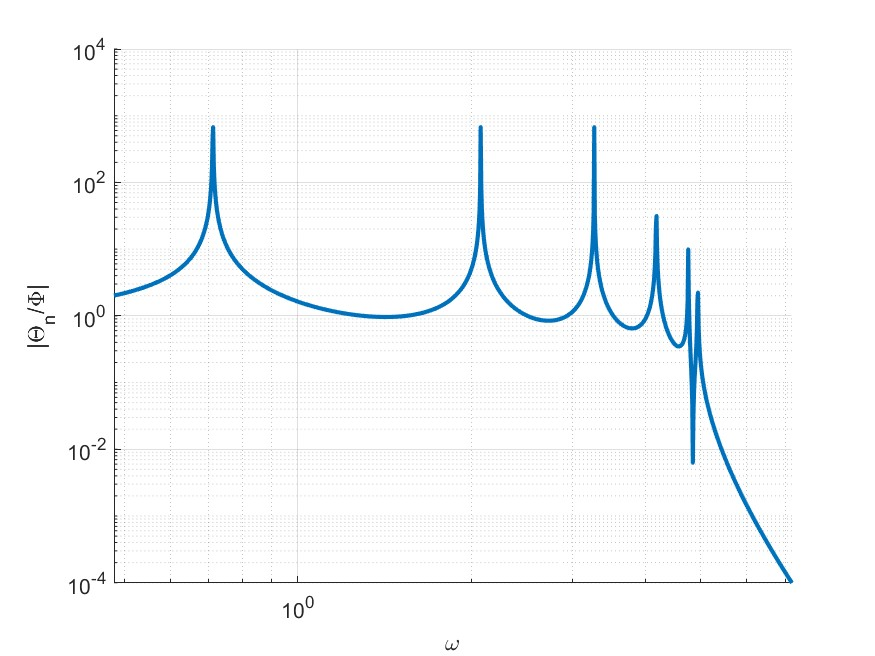
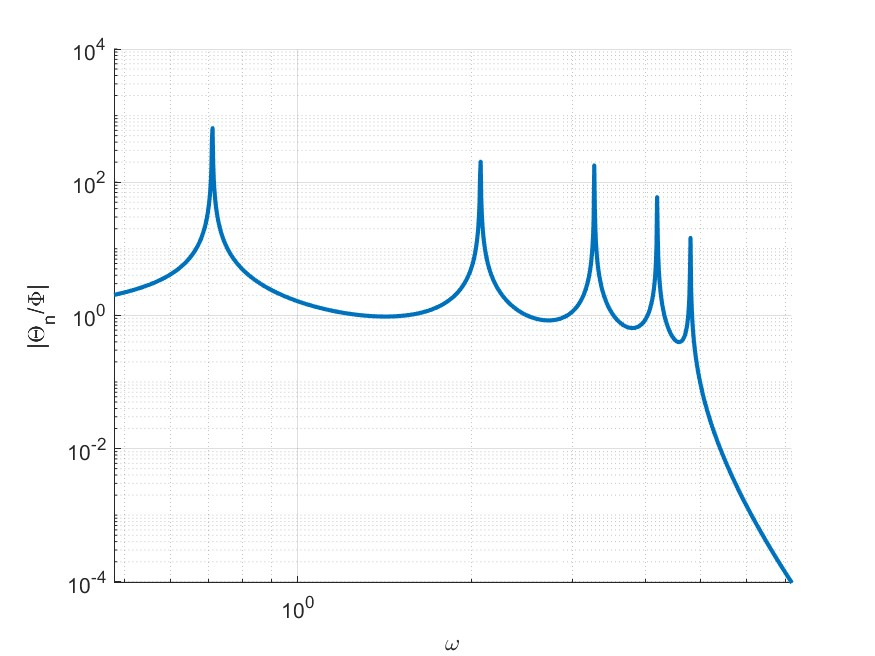
Fixed Non-Complex Number Problem

diff --git a/main.m b/main.m
@@ -300,7 +300,7 @@ end
 % Transmissibility
 function T = f_T(n, w_e, M, C, K, k)
     % Receptance Matrix
-    a = (-w_e^2 * M + w_e * C + K)^ - 1;
+    a = (-w_e^2 * M + 1i * w_e * C + K)^ - 1;
     % Transmissibility
     T = abs(a(1, n) * k);
 end
